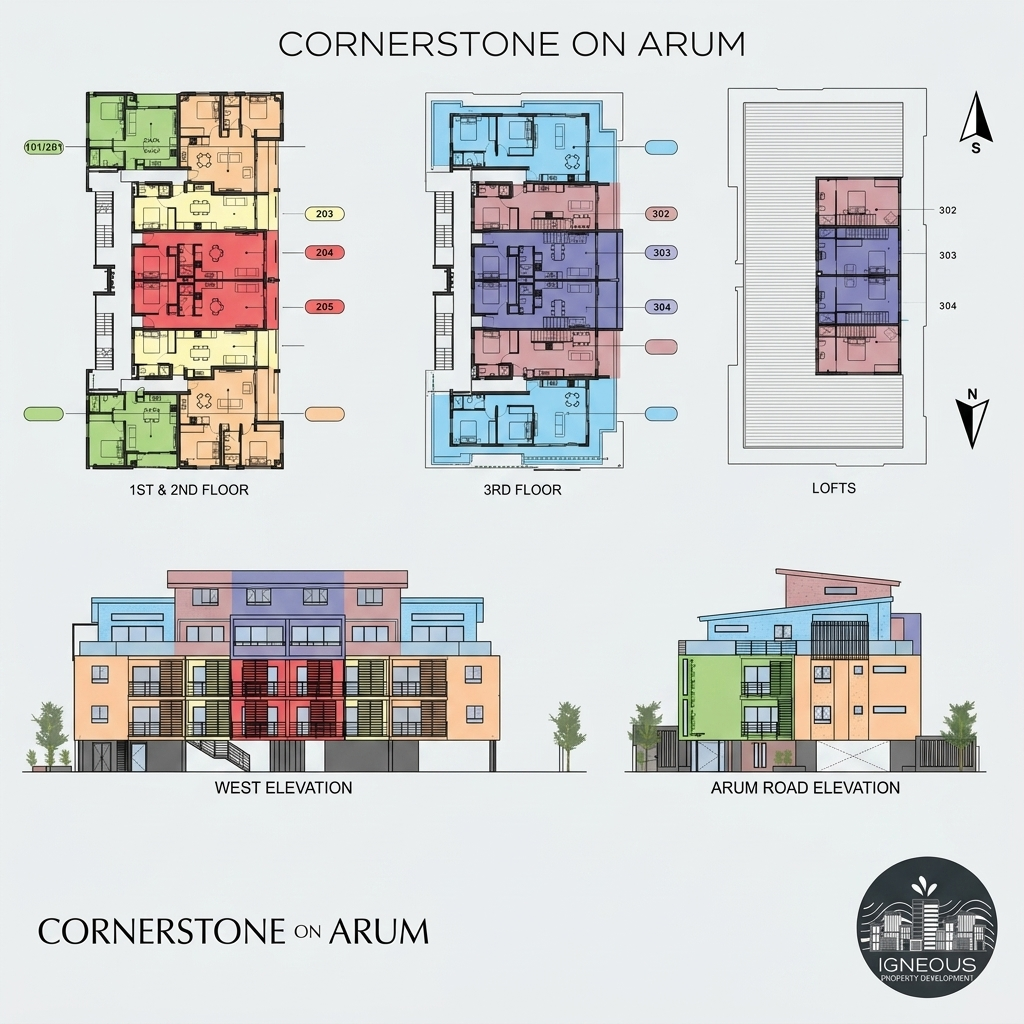
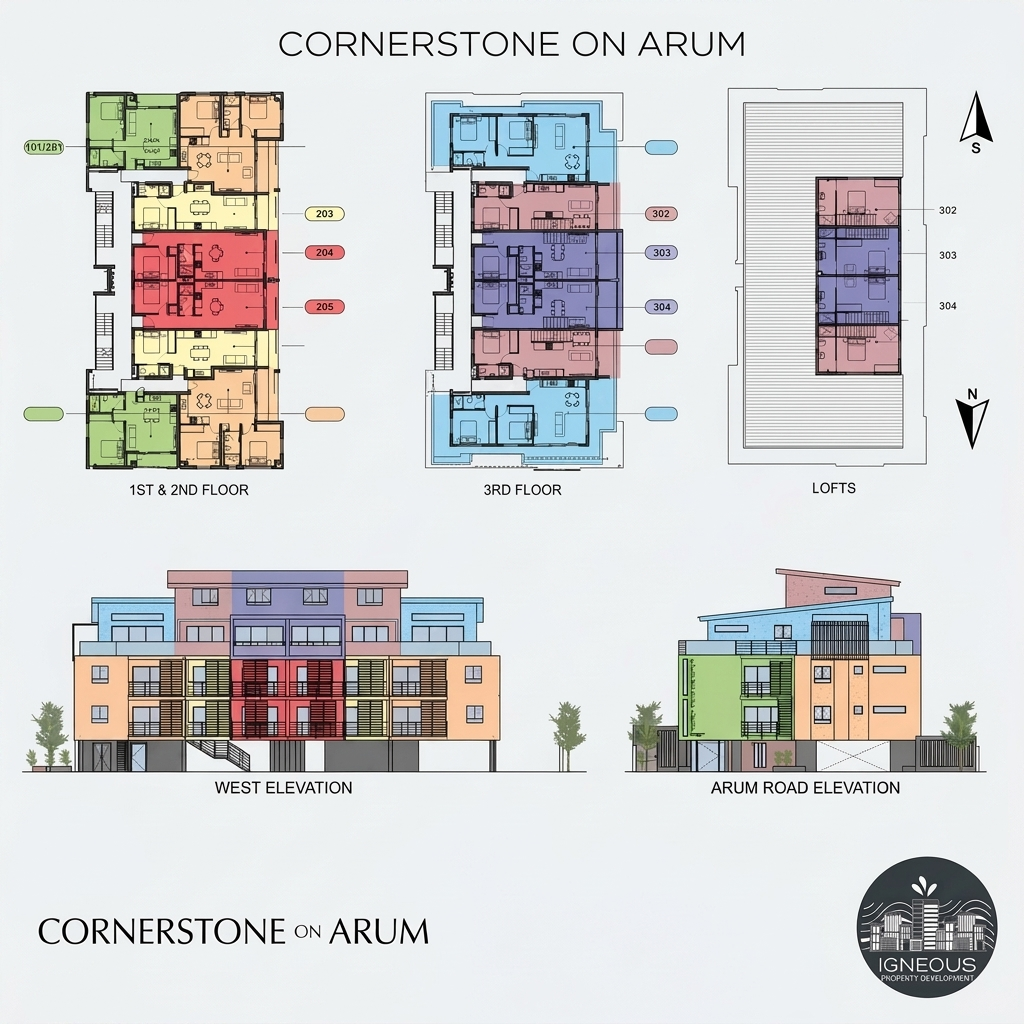
Enhance floor plan clarity and implement hover functionality to show unit cards

diff --git a/components/interactive-floor-plans.tsx b/components/interactive-floor-plans.tsx
@@ -1,0 +1,212 @@
+"use client"
+
+import { useState, useRef } from "react"
+import Image from "next/image"
+import { unitsData, Unit } from "@/data/units"
+
+interface Hotspot {
+  id: string
+  unitNos: string[]
+  name: string
+  color: string
+  shapes: { x: number; y: number; width: number; height: number }[]
+}
+
+const hotspots: Hotspot[] = [
+  {
+    id: "101-201",
+    unitNos: ["101", "201"],
+    name: "Units 101 & 201",
+    color: "#7FD957",
+    shapes: [
+      { x: 85, y: 85, width: 90, height: 90 }, // Top-left green (101/201)
+      { x: 85, y: 375, width: 90, height: 90 }  // Bottom-left green (101/201)
+    ]
+  },
+  {
+    id: "203",
+    unitNos: ["203"],
+    name: "Unit 203",
+    color: "#F4E96D",
+    shapes: [
+      { x: 175, y: 175, width: 90, height: 95 } // Upper-middle right yellow
+    ]
+  },
+  {
+    id: "204",
+    unitNos: ["204"],
+    name: "Unit 204",
+    color: "#FF6B6B",
+    shapes: [
+      { x: 85, y: 270, width: 90, height: 105 } // Middle-left red
+    ]
+  },
+  {
+    id: "205",
+    unitNos: ["205"],
+    name: "Unit 205",
+    color: "#FF6B6B",
+    shapes: [
+      { x: 175, y: 270, width: 90, height: 105 } // Middle-right red
+    ]
+  },
+  {
+    id: "302",
+    unitNos: ["302"],
+    name: "Unit 302",
+    color: "#9B9FD8",
+    shapes: [
+      { x: 415, y: 175, width: 185, height: 95 }, // 3rd Floor area
+      { x: 725, y: 175, width: 155, height: 95 }  // Loft area
+    ]
+  },
+  {
+    id: "303",
+    unitNos: ["303"],
+    name: "Unit 303",
+    color: "#F4B4C4",
+    shapes: [
+      { x: 415, y: 270, width: 185, height: 95 }, // 3rd Floor area
+      { x: 725, y: 270, width: 155, height: 95 }  // Loft area
+    ]
+  },
+  {
+    id: "304",
+    unitNos: ["304"],
+    name: "Unit 304",
+    color: "#9B9FD8",
+    shapes: [
+      { x: 415, y: 365, width: 185, height: 95 }, // 3rd Floor area
+      { x: 725, y: 365, width: 155, height: 95 }  // Loft area
+    ]
+  }
+]
+
+export function InteractiveFloorPlans() {
+  const [hoveredHotspot, setHoveredHotspot] = useState<Hotspot | null>(null)
+  const [tooltipPos, setTooltipPos] = useState({ x: 0, y: 0 })
+  const containerRef = useRef<HTMLDivElement>(null)
+
+  // Find units matching the hotspot
+  const getUnitDetails = (unitNo: string): Unit | null => {
+    for (const category in unitsData) {
+      const u = unitsData[category].find((item) => item.unitNo === unitNo)
+      if (u) return u
+    }
+    return null
+  }
+
+  const handleMouseMove = (e: React.MouseEvent<SVGSVGElement>) => {
+    if (containerRef.current) {
+      const bounds = containerRef.current.getBoundingClientRect()
+      // Position tooltip slightly offset from cursor
+      setTooltipPos({
+        x: e.clientX - bounds.left + 15,
+        y: e.clientY - bounds.top + 15
+      })
+    }
+  }
+
+  const handleMouseOver = (hotspot: Hotspot) => {
+    setHoveredHotspot(hotspot)
+  }
+
+  const handleMouseOut = () => {
+    setHoveredHotspot(null)
+  }
+
+  // Get specs of units for rendering the tooltip
+  const activeUnits = hoveredHotspot
+    ? hoveredHotspot.unitNos
+        .map((num) => getUnitDetails(num))
+        .filter((u): u is Unit => u !== null)
+    : []
+
+  return (
+    <div ref={containerRef} className="relative w-full aspect-square max-w-[850px] mx-auto overflow-visible select-none">
+      {/* Base floor plans image */}
+      <Image
+        src="/images/Colour-coded-plans.png"
+        alt="Cornerstone Colour-Coded Floor Plans"
+        fill
+        sizes="(max-width: 1024px) 100vw, 850px"
+        className="object-contain rounded-lg shadow-xl"
+        priority
+      />
+
+      {/* SVG overlay for interactive hotspots */}
+      <svg
+        viewBox="0 0 1024 1024"
+        className="absolute inset-0 w-full h-full z-10 cursor-pointer"
+        onMouseMove={handleMouseMove}
+      >
+        {hotspots.map((hotspot) =>
+          hotspot.shapes.map((shape, sIdx) => {
+            const isHovered = hoveredHotspot?.id === hotspot.id
+            return (
+              <rect
+                key={`${hotspot.id}-${sIdx}`}
+                x={shape.x}
+                y={shape.y}
+                width={shape.width}
+                height={shape.height}
+                fill={isHovered ? `${hotspot.color}33` : "transparent"} // 20% opacity color when hovered
+                stroke={isHovered ? hotspot.color : "transparent"}
+                strokeWidth={2}
+                className="transition-all duration-200"
+                onMouseOver={() => handleMouseOver(hotspot)}
+                onMouseOut={handleMouseOut}
+              />
+            )
+          })
+        )}
+      </svg>
+
+      {/* Custom Floating Glassmorphic Tooltip */}
+      {hoveredHotspot && activeUnits.length > 0 && (
+        <div
+          className="absolute z-30 pointer-events-none transition-all duration-75 ease-out"
+          style={{
+            left: `${tooltipPos.x}px`,
+            top: `${tooltipPos.y}px`,
+            maxWidth: "280px"
+          }}
+        >
+          <div className="bg-slate-950/90 backdrop-blur-md border border-white/10 text-white rounded-xl shadow-2xl p-4 flex flex-col gap-3 font-sans w-64">
+            <div className="flex items-center justify-between border-b border-white/10 pb-2">
+              <span className="font-serif text-lg tracking-tight text-warm-stone font-semibold">
+                {hoveredHotspot.name}
+              </span>
+              <span className="text-[9px] font-bold tracking-widest px-2 py-0.5 rounded bg-emerald-500/20 text-emerald-400 uppercase">
+                Available
+              </span>
+            </div>
+
+            <div className="flex flex-col gap-1.5">
+              {activeUnits.map((unit) => (
+                <div key={unit.unitNo} className="text-xs text-slate-300 flex flex-col gap-0.5 border-b border-white/5 last:border-b-0 pb-1.5 last:pb-0">
+                  <div className="flex justify-between font-medium">
+                    <span className="text-slate-400">Level:</span>
+                    <span>{unit.floor} Floor</span>
+                  </div>
+                  <div className="flex justify-between">
+                    <span className="text-slate-400">Specs:</span>
+                    <span>{unit.bedrooms} Bed • {unit.bathrooms} Bath • {unit.size}m²</span>
+                  </div>
+                  <div className="flex justify-between text-warm-stone font-semibold mt-0.5">
+                    <span>Investment:</span>
+                    <span>{unit.price}</span>
+                  </div>
+                </div>
+              ))}
+            </div>
+
+            <div className="text-[9px] text-slate-500 text-center tracking-wider uppercase mt-1">
+              Click properties below to enquire
+            </div>
+          </div>
+        </div>
+      )}
+    </div>
+  )
+}

diff --git a/app/page.tsx b/app/page.tsx
@@ -14,6 +14,7 @@ import { PartnersBanner } from "@/components/partners-banner"
 import { ContactLocationSection } from "@/components/contact-location-section"
 import { WhatsAppButton } from "@/components/whatsapp-button"
 import { MediaAssetsSection } from "@/components/media-assets-section"
+import { InteractiveFloorPlans } from "@/components/interactive-floor-plans"
 
 import { Footer } from "@/components/footer"
 import { EnquiryModal } from "@/components/enquiry-modal"
@@ -88,15 +89,8 @@ export default function HomePage() {
             <h2 className="text-2xl sm:text-3xl md:text-4xl font-serif text-center text-warm-stone mb-10 sm:mb-16 tracking-tight">
               Colour-Coded Floor Plans
             </h2>
-            <div className="w-full max-w-5xl overflow-hidden rounded-lg border border-white/10 shadow-2xl bg-zinc-900 flex justify-center">
-              <Image
-                src="/images/Colour-coded-plans.png"
-                alt="Cornerstone Colour-Coded Floor Plans"
-                width={1200}
-                height={800}
-                className="w-full h-auto object-contain"
-                priority
-              />
+            <div className="w-full max-w-5xl overflow-visible rounded-lg border border-white/10 shadow-2xl bg-zinc-900/50 p-4">
+              <InteractiveFloorPlans />
             </div>
           </div>
         </div>